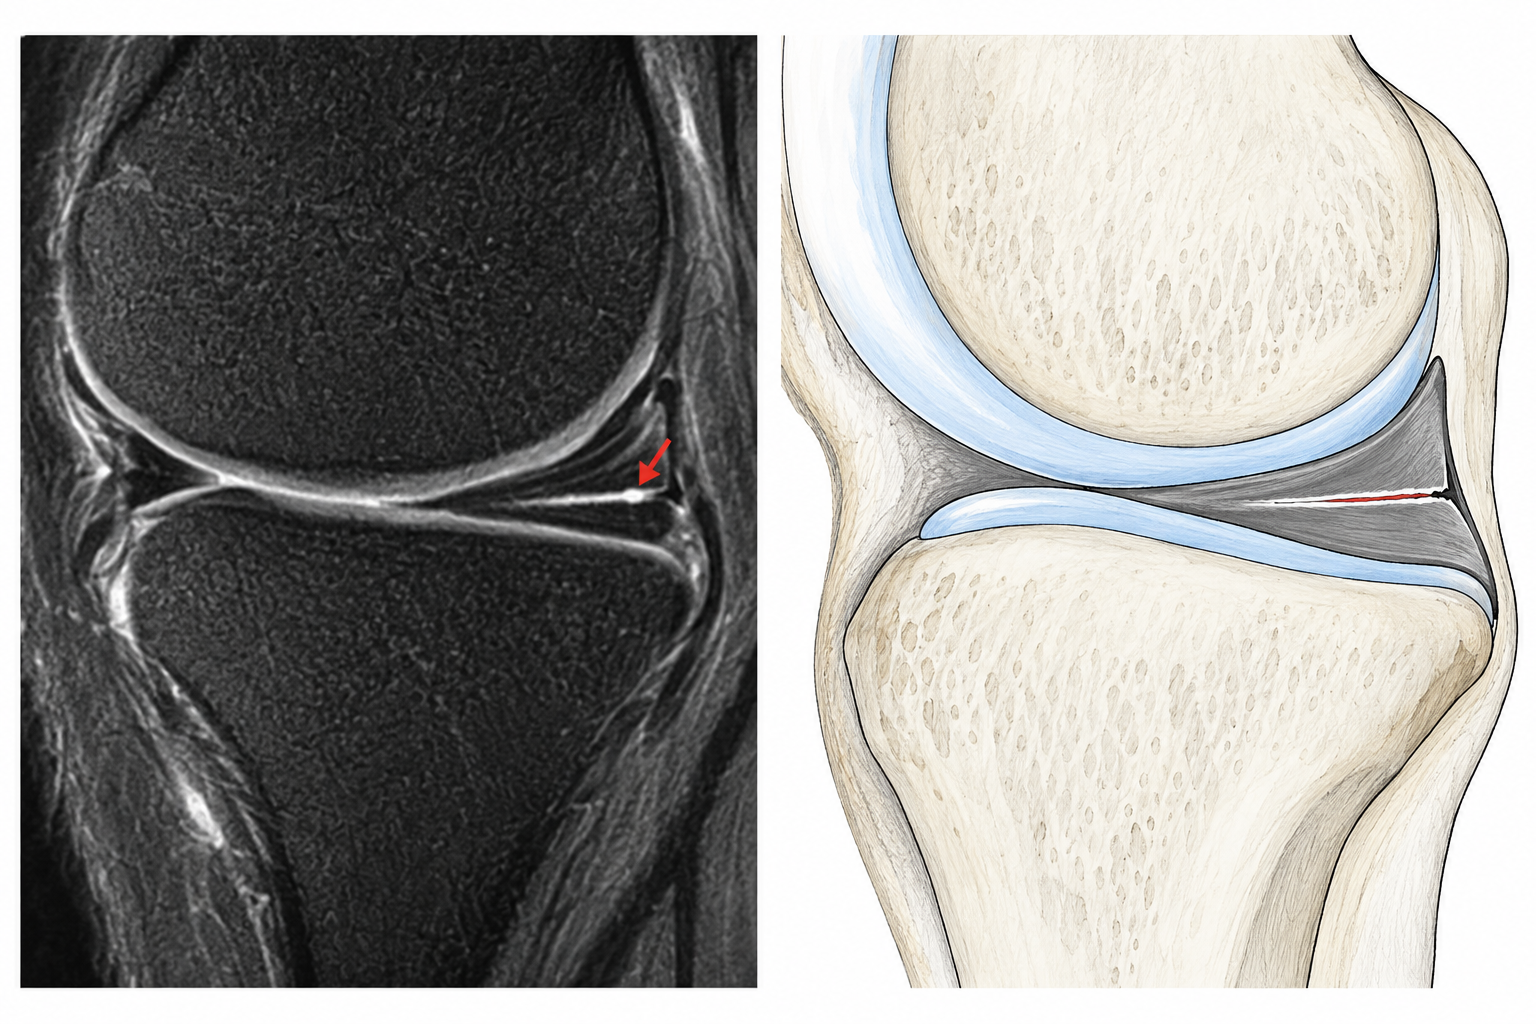
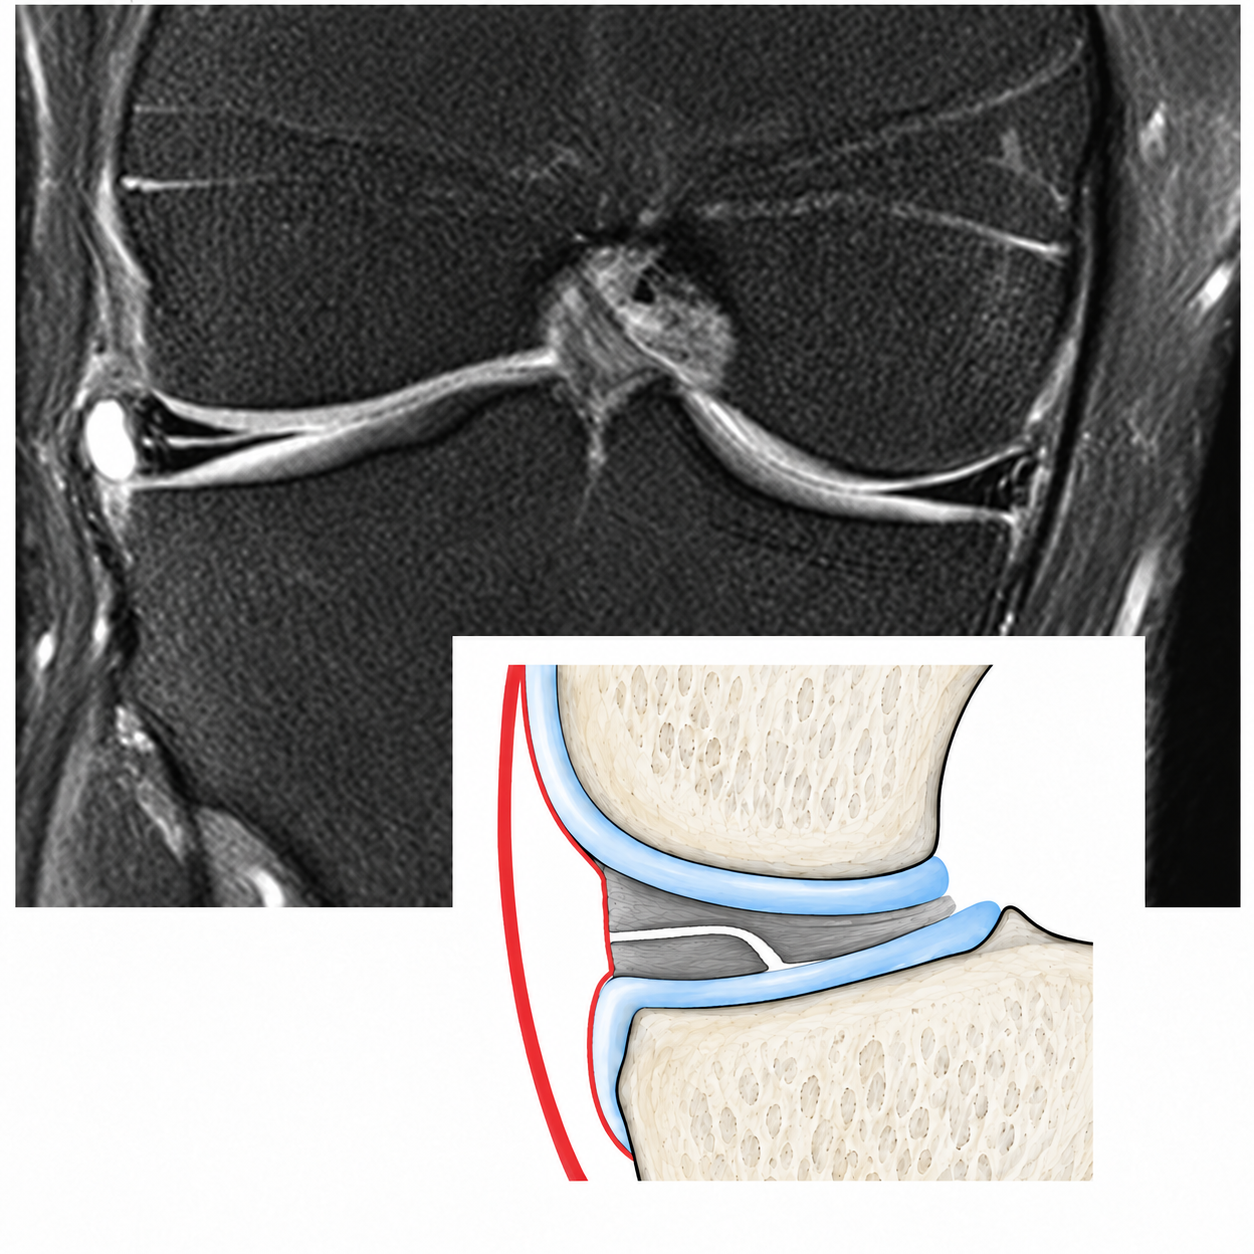
Refine tear descriptions and replace horizontal tear teaching image

diff --git a/app/msk/knie/meniskus/TearTypeExplorer.jsx b/app/msk/knie/meniskus/TearTypeExplorer.jsx
@@ -3,7 +3,7 @@ import TearSchematic from './TearSchematic'
 
 const L = (de, en, fa) => ({ de, en, fa })
 const labels = [L('Definition & Verlauf', 'Definition & orientation', 'تعریف و مسیر پارگی'), L('MRT-Merkmale', 'MRI findings', 'یافتههای MRI'), L('Klinische Bedeutung', 'Clinical significance', 'اهمیت بالینی'), L('Im Befund angeben', 'What to report', 'در گزارش ذکر شود')]
-const makeItem = (id, label, category, texts) => ({ id, label, category, details: texts.map((text, index) => text ? ({ id: String(index), label: labels[index], text }) : null).filter(Boolean) })
+const makeItem = (id, label, category, texts, detailLabels = labels) => ({ id, label, category, details: texts.map((text, index) => text ? ({ id: String(index), label: detailLabels[index], text }) : null).filter(Boolean) })
 const items = [
   makeItem('horizontal', L('Horizontalriss', 'Horizontal tear', 'پارگی افقی'), L('Parallel zum Tibiaplateau', 'Parallel to the tibial plateau', 'موازی پلاتوی تیبیا'), [
     L('Lineare Signalsteigerung parallel zur Tibiaebene, die die Oberfläche erreicht.', 'Linear increased signal parallel to the tibial plane, reaching the surface.', 'افزایش سیگنال خطی موازی صفحهٔ تیبیا که به سطح منیسک میرسد.'),
@@ -12,17 +12,17 @@ const items = [
     null,
   ]),
   makeItem('longitudinal', L('Longitudinalriss', 'Longitudinal tear', 'پارگی طولی'), L('Vertikal · parallel zur Peripherie', 'Vertical · parallel to the periphery', 'عمودی · موازی محیط منیسک'), [
-    L('Vertikaler Riss parallel zur Meniskusperipherie mit Oberflächenkontakt.', 'A vertical tear parallel to the meniscal periphery, reaching the surface.', 'پارگی عمودی موازی محیط منیسک با تماس سطحی.'),
+    L('Vertikaler Riss parallel zur Meniskusperipherie.', 'A vertical tear parallel to the meniscal periphery.', 'پارگی عمودی موازی محیط منیسک.'),
+    L(<><p>Longitudinal verlaufender Riss im Hinterhorn des Außenmeniskus.</p><p>An der Ansatzstelle des Ligamentum Wrisberg (Ligamentum meniscofemorale posterius).</p><p>Oft mit einer VKB-Ruptur kombiniert.</p></>, <><p>A longitudinal tear in the posterior horn of the lateral meniscus.</p><p>At the attachment of the ligament of Wrisberg (posterior meniscofemoral ligament).</p><p>Often associated with an ACL rupture.</p></>, <><p>پارگی طولی در شاخ خلفی منیسک خارجی.</p><p>در محل اتصال لیگامان ریسبرگ (لیگامان منیسکوفمورال خلفی).</p><p>اغلب همراه با پارگی رباط صلیبی قدامی (ACL).</p></>),
     null,
-    L(<><p>Periphere, reparable Risse können genäht werden.</p><p>Gefäßzone, Stabilität und Gewebequalität sind entscheidend.</p><p>Bei zentraler Fragmentverlagerung: Korbhenkelriss.</p></>, <><p>Peripheral, repairable tears may be sutured.</p><p>Vascular zone, stability and tissue quality matter.</p><p>Central fragment displacement: bucket-handle tear.</p></>, <><p>پارگی محیطیِ قابلترمیم ممکن است برای بخیه مناسب باشد.</p><p>ناحیهٔ خونرسانی، پایداری و کیفیت بافت مهماند.</p><p>جابهجایی قطعه به مرکز: پارگی دستهسطلی.</p></>),
     null,
-  ]),
+  ], [labels[0], L('Wrisberg-Rip', 'Wrisberg rip', 'پارگی ریسبرگ (Wrisberg-Rip)')]),
   makeItem('radial', L('Radiärriss', 'Radial tear', 'پارگی شعاعی'), L('Vom freien Rand nach außen', 'From the free edge outward', 'از لبهٔ آزاد به سمت محیط'), [
     L('Riss vom freien Innenrand zur Peripherie, quer zu den zirkumferenziellen Fasern.', 'A tear from the free inner edge towards the periphery, crossing the circumferential fibres.', 'پارگی از لبهٔ آزاد داخلی به سمت محیط، در عرض الیاف حلقوی.'),
+    L('Spaltförmiger, flüssigkeitssignalreicher Defekt im Meniskus.', 'A cleft-like, fluid-signal defect in the meniscus.', 'نقص شکافمانند با سیگنال مایع در منیسک.'),
     null,
-    L(<><p>Tiefe oder komplette Risse können die Ringspannung beeinträchtigen.</p><p>Wurzelnahe Risse besonders beachten.</p></>, <><p>Deep or complete tears can impair hoop-stress transmission.</p><p>Pay particular attention to root-adjacent tears.</p></>, <><p>پارگی عمیق یا کامل میتواند انتقال تنش حلقوی را مختل کند.</p><p>به پارگیهای نزدیک ریشه توجه ویژه کنید.</p></>),
     null,
-  ]),
+  ], [labels[0], L('Cleft sign', 'Cleft sign', 'علامت شکاف (Cleft sign)')]),
   makeItem('radial-complete', L('Vollständiger Radiärriss', 'Complete radial tear', 'پارگی شعاعی کامل'), L('Durch die gesamte Meniskusbreite', 'Across the full meniscal width', 'در تمام عرض منیسک'), [
     L('Radiärer Riss durch die gesamte Meniskusbreite, vom freien Rand bis zur Peripherie.', 'A radial tear across the full meniscal width, from the free edge to the periphery.', 'پارگی شعاعی در تمام عرض منیسک، از لبهٔ آزاد تا محیط.'),
     null,

diff --git a/app/msk/knie/meniskus/TearSchematic.jsx b/app/msk/knie/meniskus/TearSchematic.jsx
@@ -12,7 +12,7 @@ export default function TearSchematic({ item, lang }) {
   const src = `/meniskus/tear-${item.id}-mri-drawing-v1.png`
   return <figure className={styles.tearSchematic} data-tear-illustration={item.id}>
     <a href={src} data-no-zoom target="_blank" rel="noopener noreferrer" aria-label={`${title} · ${copy.open}`}>
-      <img src={src} width="1536" height="1024" loading="lazy" alt={`${title} · ${copy.alt}`} />
+      <img src={src} width={item.id === 'horizontal' ? 1254 : 1536} height={item.id === 'horizontal' ? 1254 : 1024} loading="lazy" alt={`${title} · ${copy.alt}`} />
     </a>
     <figcaption>{copy.note}</figcaption>
   </figure>
